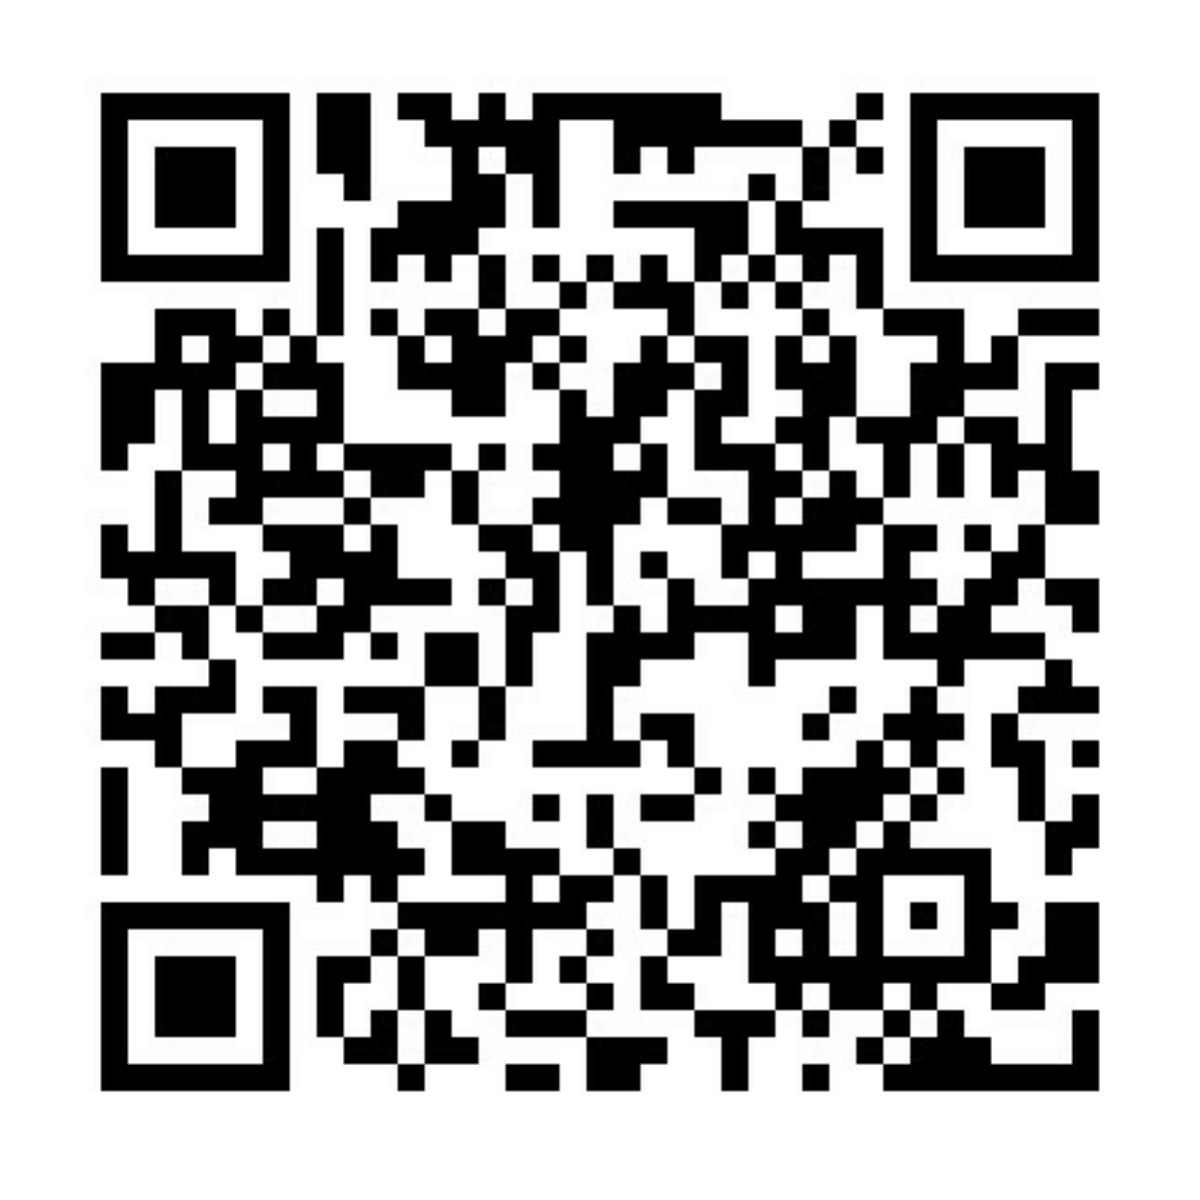
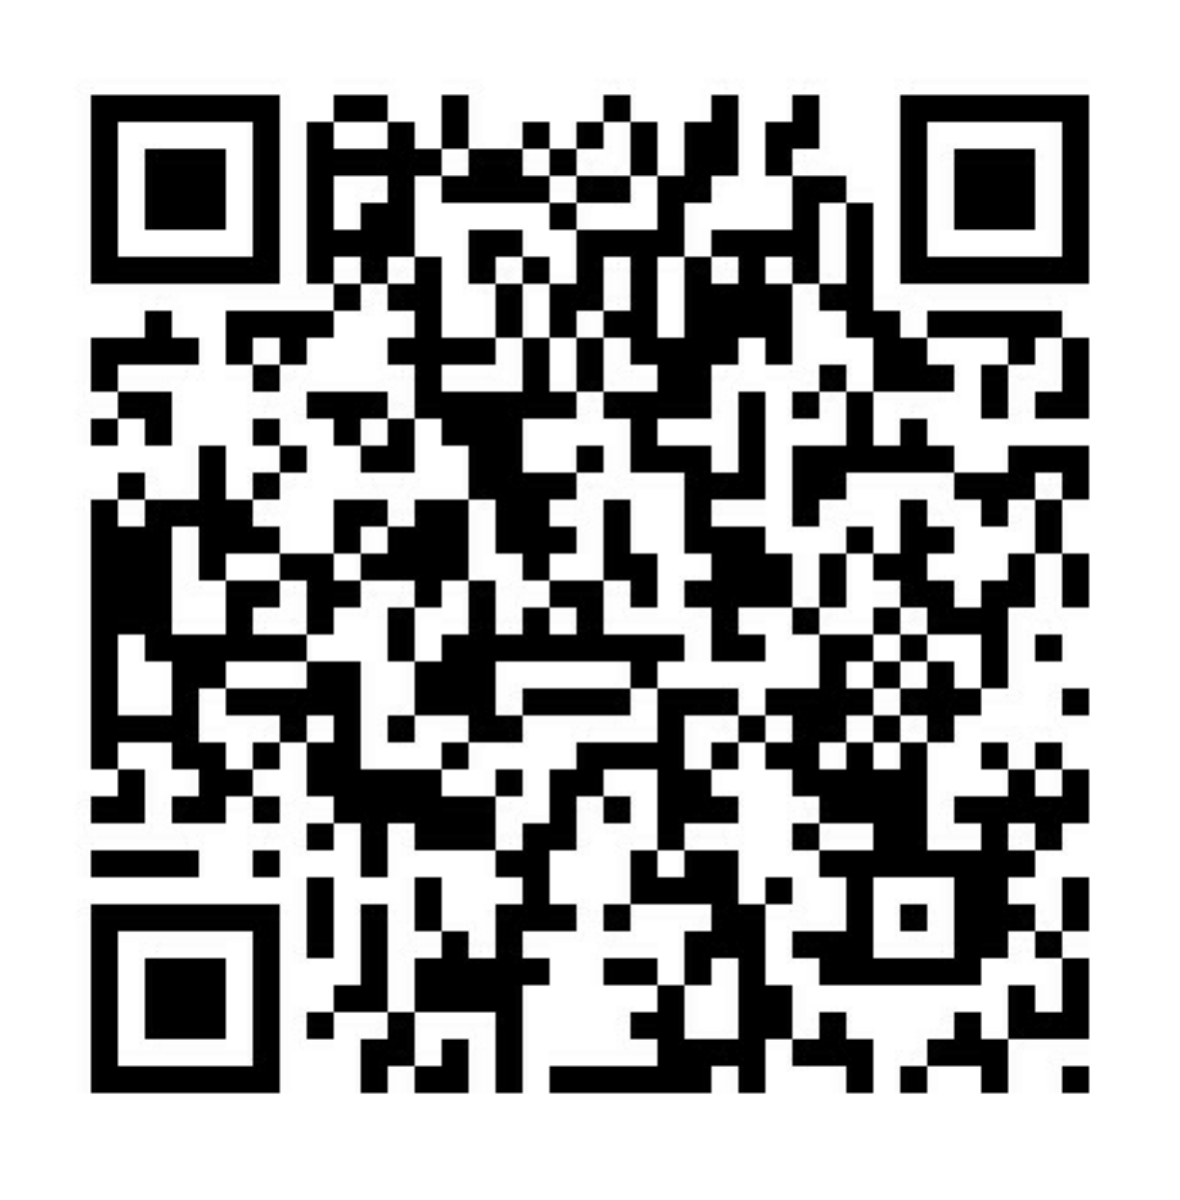
Updated link to new staff meeting calendar poll.

diff --git a/index.html b/index.html
@@ -315,7 +315,7 @@ http.createServer(function (req, res) {
         <p>&star;Post already occupied</p>
     </div>
 </div>
-<h3>Next meeting date:<br /><a href="https://doodle.com/poll/cerfvrrrttty4rer">Calendar proposals</a></h3>
+<h3>Next meeting date:<br /><a href="https://doodle.com/poll/ckv7cckfx8ge9vbe">Calendar proposals</a></h3>
 
         </div>
       </div>

diff --git a/staff.html b/staff.html
@@ -14,4 +14,4 @@
         <p>&star;Post already occupied</p>
     </div>
 </div>
-<h3>Next meeting date:<br /><a href="https://doodle.com/poll/cerfvrrrttty4rer">Calendar proposals</a></h3>
+<h3>Next meeting date:<br /><a href="https://doodle.com/poll/ckv7cckfx8ge9vbe">Calendar proposals</a></h3>

diff --git a/source/_posts/2000-04-10-staff.md b/source/_posts/2000-04-10-staff.md
@@ -21,4 +21,4 @@ fas-icon: users fa-sm
         <p>&star;Post already occupied</p>
     </div>
 </div>
-### Next meeting date:<br />[Calendar proposals](https://doodle.com/poll/cerfvrrrttty4rer)
+### Next meeting date:<br />[Calendar proposals](https://doodle.com/poll/ckv7cckfx8ge9vbe)
